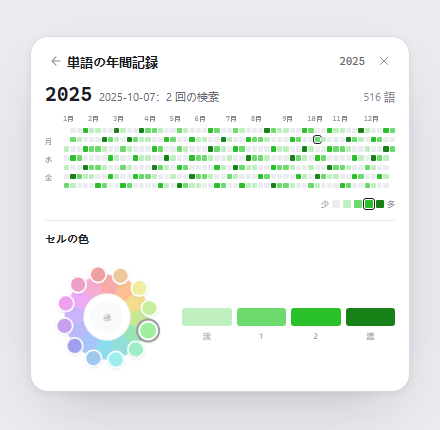
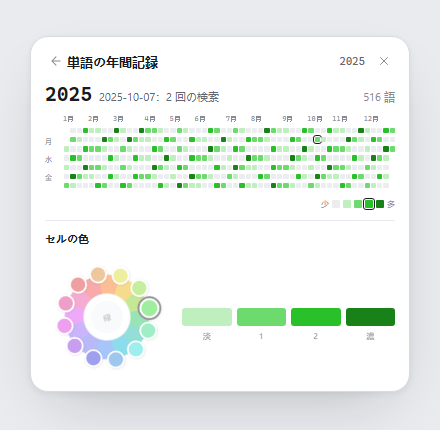
feat(year): turn the hue ring to the chosen hue and match the prototype's wheel

Changed region(s): [[0.1182, 0.6047, 0.3841, 0.8465]]

diff --git a/src/app/qml/YearWordsPopup.qml b/src/app/qml/YearWordsPopup.qml
@@ -46,6 +46,9 @@ Window {
 
     property bool paletteOpen: false
     property int hueIndex: 4
+    /// The ring's turn, in degrees: the selected hue is brought to 90° clockwise (3 o'clock). A click
+    /// takes the shortest way from wherever the last one left the ring.
+    property real wheelRotation: 90 - 30 * hueIndex
     property int selectedLevel: 0
     property string selectedDate: ""
     readonly property var selectedDay: year.days.find(function (day) { return day.date === year.selectedDate; }) || null
@@ -118,6 +121,9 @@ Window {
     }
 
     function selectHue(index) {
+        // Computed before hueIndex moves: wheelRotation's initial binding reads it.
+        const target = 90 - 30 * index;
+        wheelRotation += ((target - wheelRotation) % 360 + 540) % 360 - 180;
         hueIndex = index;
     }
 
@@ -387,15 +393,6 @@ Window {
                     width: 124
                     height: 124
 
-                    Rectangle {
-                        anchors.fill: parent
-                        anchors.margins: 12
-                        radius: width / 2
-                        color: "transparent"
-                        border.width: 1
-                        border.color: year.tokens.line
-                    }
-
                     Item {
                         id: orbit
                         anchors.fill: parent
@@ -410,26 +407,133 @@ Window {
                             running: year.tokens.motion.pop > 0
                         }
 
-                        Repeater {
-                            model: year.hues.length
-                            delegate: Rectangle {
-                                id: hueCell
-                                required property int index
-                                readonly property real angle: index * Math.PI / 6
-                                readonly property int hue: year.hues[index].hue
-                                x: wheel.width / 2 - width / 2 + Math.sin(angle) * 51
-                                y: wheel.height / 2 - height / 2 - Math.cos(angle) * 51
-                                width: 20
-                                height: 20
-                                radius: 10
-                                color: Qt.hsla(hue / 360, 0.72, 0.52, 1)
-                                border.width: year.hueIndex === index ? 2 : 1
-                                border.color: year.hueIndex === index ? year.tokens.text : year.tokens.panel
-                                Accessible.role: Accessible.Button
-                                Accessible.name: year.hues[index].name
-                                TapHandler { onTapped: year.selectHue(hueCell.index) }
+                        // The ring and its dots turn together; the disc at the centre stays put, so the
+                        // name needs no counter-rotation.
+                        Item {
+                            id: spin
+                            anchors.fill: parent
+                            rotation: year.wheelRotation
+                            Behavior on rotation {
+                                NumberAnimation {
+                                    duration: year.tokens.motion.pop
+                                    easing.type: year.tokens.motion.easing
+                                }
+                            }
+
+                            // The colour disc is inset 12 px, as the prototype's is; the beads below straddle
+                            // its rim, which is what makes a flower of them rather than a pie chart.
+                            Canvas {
+                                anchors.fill: parent
+                                onPaint: {
+                                    const ctx = getContext("2d");
+                                    const cx = spin.width / 2;
+                                    const cy = spin.height / 2;
+                                    const radius = spin.width / 2 - 12;
+                                    const colors = ["#ef4444", "#f97316", "#eab308", "#84cc16", "#22c55e", "#14b8a6",
+                                                    "#06b6d4", "#3b82f6", "#6366f1", "#8b5cf6", "#d946ef", "#ec4899"];
+                                    const step = Math.PI / 6;
+                                    // A hair of overlap hides the anti-aliasing seam between neighbouring wedges.
+                                    const overlap = 0.008;
+                                    // An annulus, not a disc: nothing is painted under the middle, so the centre
+                                    // discs over it read as the card's glass rather than as a tinted colour.
+                                    const inner = 27;
+                                    for (let index = 0; index < colors.length; ++index) {
+                                        const from = -Math.PI / 2 + index * step - overlap;
+                                        ctx.beginPath();
+                                        ctx.arc(cx, cy, radius, from, from + step + 2 * overlap);
+                                        ctx.arc(cx, cy, inner, from + step + 2 * overlap, from, true);
+                                        ctx.closePath();
+                                        ctx.fillStyle = colors[index];
+                                        ctx.fill();
+                                    }
+                                    // The beads' rest shadow, one pixel down and soft, as the prototype's
+                                    // box-shadow draws it. Painted here because it turns with their ring.
+                                    for (let index = 0; index < colors.length; ++index) {
+                                        const bx = cx + Math.sin(index * step) * 51;
+                                        const by = cy - Math.cos(index * step) * 51 + 1;
+                                        const shadow = ctx.createRadialGradient(bx, by, 8, bx, by, 14);
+                                        shadow.addColorStop(0, "rgba(20,20,26,0.24)");
+                                        shadow.addColorStop(1, "rgba(20,20,26,0)");
+                                        ctx.beginPath();
+                                        ctx.arc(bx, by, 14, 0, 2 * Math.PI);
+                                        ctx.fillStyle = shadow;
+                                        ctx.fill();
+                                    }
+                                }
+                            }
+
+                            Rectangle {
+                                anchors.fill: parent
+                                anchors.margins: 12
+                                radius: width / 2
+                                color: "transparent"
+                                border.width: 1
+                                border.color: Qt.rgba(1, 1, 1, 0.24)
+                            }
+
+                            Repeater {
+                                model: year.hues.length
+                                delegate: Rectangle {
+                                    id: hueCell
+                                    required property int index
+                                    readonly property real angle: index * Math.PI / 6
+                                    readonly property int hue: year.hues[index].hue
+                                    readonly property bool active: year.hueIndex === index || hueHover.hovered
+                                    x: wheel.width / 2 - width / 2 + Math.sin(angle) * 51
+                                    y: wheel.height / 2 - height / 2 - Math.cos(angle) * 51
+                                    width: 21
+                                    height: 21
+                                    radius: 10.5
+                                    color: Qt.hsla(hue / 360, 0.70, 0.52, 1)
+                                    border.width: 2
+                                    border.color: year.tokens.panel
+                                    scale: active ? 1.12 : 1
+                                    Accessible.role: Accessible.Button
+                                    Accessible.name: year.hues[index].name
+
+                                    Behavior on scale {
+                                        NumberAnimation {
+                                            duration: year.tokens.motion.press
+                                            easing.type: year.tokens.motion.easing
+                                        }
+                                    }
+                                    HoverHandler {
+                                        id: hueHover
+                                        cursorShape: Qt.PointingHandCursor
+                                    }
+                                    TapHandler { onTapped: year.selectHue(hueCell.index) }
+
+                                    // The hover and selected mark: a ring outside the dot, as the prototype draws it.
+                                    Rectangle {
+                                        anchors.centerIn: parent
+                                        width: parent.width + 4
+                                        height: parent.height + 4
+                                        radius: width / 2
+                                        color: "transparent"
+                                        border.width: 2
+                                        border.color: year.tokens.text
+                                        opacity: hueCell.active ? 1 : 0
+                                        Accessible.ignored: true
+                                        Behavior on opacity {
+                                            NumberAnimation {
+                                                duration: year.tokens.motion.press
+                                                easing.type: year.tokens.motion.easing
+                                            }
+                                        }
+                                    }
+                                }
                             }
                         }
+                    }
+
+                    Rectangle {
+                        anchors.centerIn: parent
+                        width: 56
+                        height: 56
+                        radius: 28
+                        color: year.tokens.panel
+                        border.width: 1
+                        border.color: year.tokens.line
                     }
 
                     Rectangle {
@@ -438,14 +542,12 @@ Window {
                         height: 48
                         radius: 24
                         color: year.tokens.panel2
-                        border.width: 1
-                        border.color: year.tokens.line
                         Text {
                             anchors.centerIn: parent
                             width: parent.width - 8
                             text: year.hues[year.hueIndex].name
                             color: year.tokens.muted
-                            font.pixelSize: 8
+                            font.pixelSize: 9
                             horizontalAlignment: Text.AlignHCenter
                             elide: Text.ElideRight
                         }

diff --git a/ui-prototypes/year-in-words.html b/ui-prototypes/year-in-words.html
@@ -100,10 +100,10 @@ button{font:inherit;color:inherit}
 .palette:not(.open){padding-top:0;border-top-color:transparent}
 .palette-head{font-size:11px;font-weight:700}
 .palette-body{display:flex;align-items:center;gap:13px;margin-top:9px}
-.hue-wheel{position:relative;width:124px;height:124px;flex:none;animation:hue-wheel-in .28s cubic-bezier(.2,.8,.2,1)}
-.hue-wheel::before{content:"";position:absolute;inset:12px;border-radius:50%;background:conic-gradient(#ef4444 0deg 30deg,#f97316 30deg 60deg,#eab308 60deg 90deg,#84cc16 90deg 120deg,#22c55e 120deg 150deg,#14b8a6 150deg 180deg,#06b6d4 180deg 210deg,#3b82f6 210deg 240deg,#6366f1 240deg 270deg,#8b5cf6 270deg 300deg,#d946ef 300deg 330deg,#ec4899 330deg 360deg);box-shadow:inset 0 0 0 1px rgba(255,255,255,.24)}
+.hue-wheel{position:relative;width:124px;height:124px;flex:none;rotate:var(--wheel-angle,0deg);transition:rotate .4s cubic-bezier(.2,.8,.2,1);animation:hue-wheel-in .28s cubic-bezier(.2,.8,.2,1)}
+.hue-wheel::before{content:"";position:absolute;inset:12px;border-radius:50%;background:conic-gradient(#ef4444 0deg 30deg,#f97316 30deg 60deg,#eab308 60deg 90deg,#84cc16 90deg 120deg,#22c55e 120deg 150deg,#14b8a6 150deg 180deg,#06b6d4 180deg 210deg,#3b82f6 210deg 240deg,#6366f1 240deg 270deg,#8b5cf6 270deg 300deg,#d946ef 300deg 330deg,#ec4899 330deg 360deg);-webkit-mask-image:radial-gradient(circle,transparent 27px,#000 28px);mask-image:radial-gradient(circle,transparent 27px,#000 28px);box-shadow:inset 0 0 0 1px rgba(255,255,255,.24)}
 .hue-wheel::after{content:"";position:absolute;inset:34px;border:1px solid var(--line);border-radius:50%;background:var(--panel)}
-.hue-core{position:absolute;z-index:1;inset:43px;display:grid;place-items:center;border-radius:50%;background:var(--panel2);color:var(--muted);font-size:9px;pointer-events:none}
+.hue-core{position:absolute;z-index:1;inset:43px;display:grid;place-items:center;border-radius:50%;background:var(--panel2);color:var(--muted);font-size:9px;pointer-events:none;rotate:calc(var(--wheel-angle,0deg) * -1);transition:rotate .4s cubic-bezier(.2,.8,.2,1)}
 .hue{position:absolute;z-index:2;left:50%;top:50%;width:21px;height:21px;border:2px solid var(--panel);border-radius:50%;background:hsl(var(--hue-value) 70% 52%);box-shadow:0 1px 3px rgba(20,20,26,.24);cursor:pointer;transform:translate(-50%,-50%) rotate(var(--angle)) translateY(-51px) rotate(calc(var(--angle) * -1));transition:transform .15s ease,box-shadow .15s ease}
 .hue:hover,.hue[aria-pressed=true]{box-shadow:0 0 0 2px var(--text),0 2px 4px rgba(20,20,26,.26);transform:translate(-50%,-50%) rotate(var(--angle)) translateY(-51px) rotate(calc(var(--angle) * -1)) scale(1.12)}
 .shade-panel{min-width:0;flex:1;align-self:stretch;position:relative}
@@ -121,7 +121,7 @@ html[data-theme=dark] .shade:nth-child(4) i{background:hsl(var(--palette-hue) 68
 .icon:focus-visible,.day:focus-visible,.year:focus-visible,.swatch:focus-visible,.hue:focus-visible,.theme:focus-visible{outline:2px solid var(--ok);outline-offset:2px}
 @keyframes hue-wheel-in{from{opacity:0;transform:scale(.72) rotate(-22deg)}to{opacity:1;transform:none}}
 @media(max-width:410px){body{padding-inline:10px}.panel{padding-inline:13px}.palette-body{gap:9px}.hue-wheel{width:116px;height:116px}.hue{transform:translate(-50%,-50%) rotate(var(--angle)) translateY(-47px) rotate(calc(var(--angle) * -1))}.hue:hover,.hue[aria-pressed=true]{transform:translate(-50%,-50%) rotate(var(--angle)) translateY(-47px) rotate(calc(var(--angle) * -1)) scale(1.12)}}
-@media(prefers-reduced-motion:reduce){.palette{transition:none}.hue-wheel{animation:none}.hue{transition:none}}
+@media(prefers-reduced-motion:reduce){.palette{transition:none}.hue-wheel,.hue-core{animation:none;transition:none}.hue{transition:none}}
 </style>
 </head>
 <body>
@@ -193,9 +193,9 @@ const grid=document.getElementById('grid');grid.style.gridTemplateColumns=`repea
 function choose(date,count){document.querySelectorAll('.day').forEach(day=>day.setAttribute('aria-pressed',String(day.dataset.date===key(date))));document.getElementById('dayDetail').textContent=t.lookupsFmt.replace('%1',key(date)).replace('%2',count)}
 for(let week=0;week<weekCount;week++)for(let weekday=0;weekday<7;weekday++){const index=week*7+weekday-offset;const date=index>=0&&index<days.length?days[index]:null;if(!date){const blank=document.createElement('i');blank.className='day';blank.style.visibility='hidden';grid.append(blank);continue}const count=counts.get(key(date));const button=document.createElement('button');button.type='button';button.className='day';button.dataset.date=key(date);button.dataset.level=level(count);button.setAttribute('aria-pressed','false');button.setAttribute('aria-label',t.cellAria.replace('%1',key(date)).replace('%2',count));button.title=t.cellAria.replace('%1',key(date)).replace('%2',count);button.addEventListener('click',()=>choose(date,count));grid.append(button)}
 choose(new Date(year,9,7),counts.get(key(new Date(year,9,7))));
-const root=document.documentElement;const palette=document.getElementById('palette');const panel=document.getElementById('panel');const hueWheel=document.getElementById('hueWheel');const hueCore=document.getElementById('hueCore');let selectedHue=4;
+const root=document.documentElement;const palette=document.getElementById('palette');const panel=document.getElementById('panel');const hueWheel=document.getElementById('hueWheel');const hueCore=document.getElementById('hueCore');let selectedHue=4;let wheelAngle=0;
 hues.forEach(([name,hue],index)=>{const button=document.createElement('button');button.type='button';button.className='hue';button.style.setProperty('--hue-value',hue);button.style.setProperty('--angle',`${index*30}deg`);button.dataset.index=index;button.setAttribute('aria-label',name);button.setAttribute('aria-pressed',String(index===selectedHue));button.addEventListener('click',()=>applyHue(index));hueWheel.append(button)});
-function applyHue(index){selectedHue=index;const [name,hue]=hues[index];root.style.setProperty('--hue',hue);root.style.setProperty('--palette-hue',hue);hueCore.textContent=name;document.querySelectorAll('.hue').forEach(button=>button.setAttribute('aria-pressed',String(Number(button.dataset.index)===index)))}
+function applyHue(index){selectedHue=index;const [name,hue]=hues[index];root.style.setProperty('--hue',hue);root.style.setProperty('--palette-hue',hue);hueCore.textContent=name;document.querySelectorAll('.hue').forEach(button=>button.setAttribute('aria-pressed',String(Number(button.dataset.index)===index)));/* 选中的色相滚到顺时针 90°；取与当前转角最近的等价角，免得为了几度倒转大半圈 */const target=90-hue;wheelAngle+=((target-wheelAngle)%360+540)%360-180;hueWheel.style.setProperty('--wheel-angle',`${wheelAngle}deg`)}
 function openPalette(){palette.hidden=false;panel.classList.add('palette-open');sizeRefract(panel,'lg-liquid','lg-map');requestAnimationFrame(()=>palette.classList.add('open'));document.querySelector('.swatch[aria-pressed=true]')?.focus()}
 function closePalette(){palette.classList.remove('open');panel.classList.remove('palette-open');setTimeout(()=>{if(!palette.classList.contains('open')){palette.hidden=true;sizeRefract(panel,'lg-liquid','lg-map')}},180)}
 document.querySelectorAll('.swatch').forEach(swatch=>swatch.addEventListener('click',()=>{const shut=!palette.hidden&&swatch.getAttribute('aria-pressed')==='true';document.querySelectorAll('.swatch').forEach(item=>item.setAttribute('aria-pressed',String(item===swatch)));shut?closePalette():openPalette()}));
